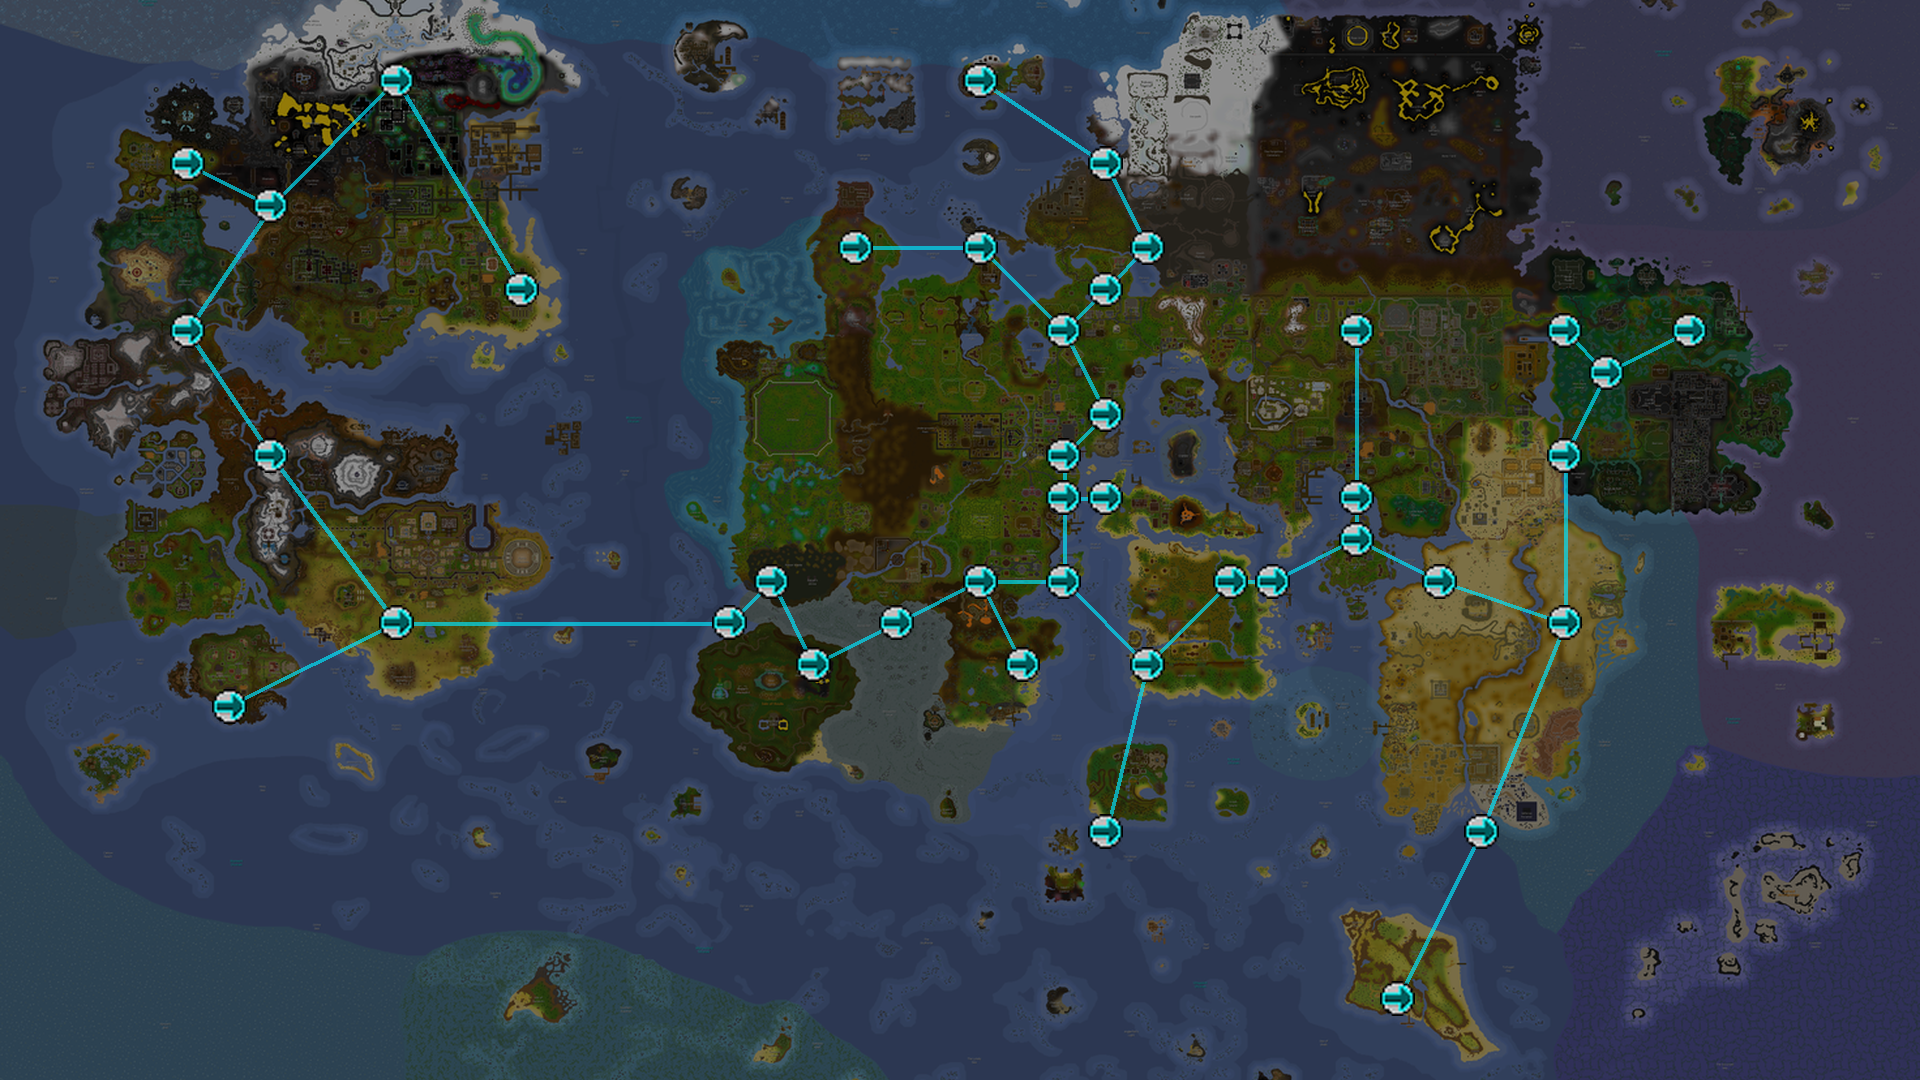
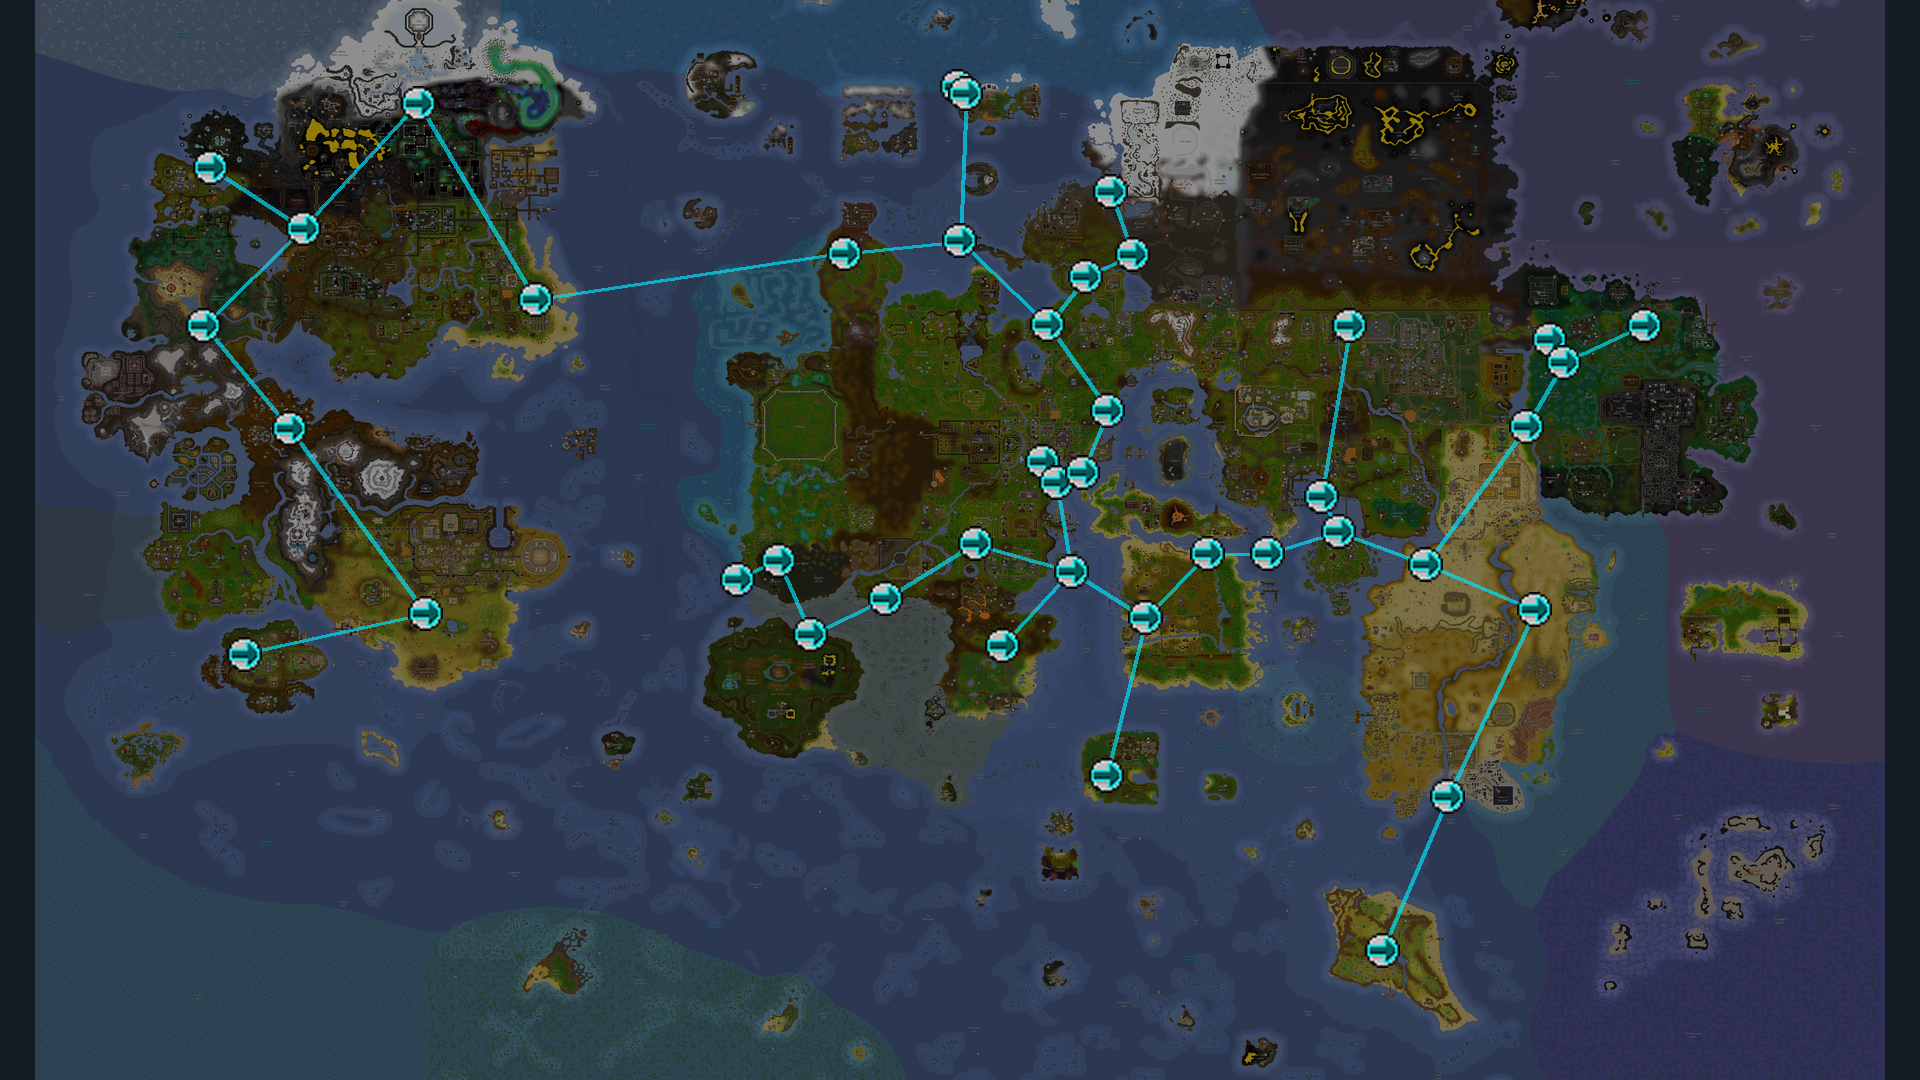
checkpoint

diff --git a/video-concept/generate_network_hd_test.py b/video-concept/generate_network_hd_test.py
@@ -1,0 +1,104 @@
+# HD test version of the fairy-ring travel network image.
+# Uses the HD world map directly (resized to the same 46x31 chunk grid) for crisper
+# detail than the 1/8-scale chunk overview. Writes to "01-fairy-ring-network copy.png".
+import json, os, math, re
+from PIL import Image, ImageDraw, ImageEnhance
+
+HD_SRC = r'c:\administratie\git\FairyMaster\fairyspecial\Old_School_RuneScape_world_map_hd.png'
+INDEX_JS = r'c:\administratie\git\FairyMaster\fairyspecial\static\index.js'
+CHUNKS_DIR = r'c:\administratie\git\FairyMaster\fairyspecial\static\chunks'
+OUT = r'c:\administratie\git\FairyMaster\video-concept\01-fairy-ring-network copy.png'
+
+manifest = json.load(open(os.path.join(CHUNKS_DIR, 'manifest.json')))
+COLS, ROWS = manifest['cols'], manifest['rows']
+
+FAIRY = {
+    '4,9', '4,23', '6,4', '6,26', '7,6', '8,20', '8,23', '8,27', '9,12', '9,26',
+    '10,4', '10,25', '10,32', '10,37', '10,40', '11,38', '12,26', '13,6', '13,25', '13,37',
+    '14,25', '14,26', '14,32', '15,32', '16,18', '16,23', '16,25', '16,29', '16,30', '16,34',
+    '17,9', '17,17', '17,21', '17,37', '18,19', '18,24', '18,27', '19,5', '22,26', '22,35', '26,33'
+}
+
+# Build the overview from the HD map directly at half of the stitched size (128px per chunk)
+SCALE = 2
+OV_W, OV_H = COLS * 256 // SCALE, ROWS * 256 // SCALE
+print('Building HD overview', OV_W, 'x', OV_H)
+overview = Image.open(HD_SRC).convert('RGB').resize((OV_W, OV_H), Image.LANCZOS)
+
+W, H = 1920, 1080
+img = Image.new('RGB', (W, H), (8, 10, 16))
+# cover-scale the overview onto the canvas
+ov_scale = max(W / OV_W, H / OV_H)
+nw, nh = int(OV_W * ov_scale), int(OV_H * ov_scale)
+img.paste(overview.resize((nw, nh), Image.LANCZOS), ((W - nw) // 2, (H - nh) // 2))
+img = ImageEnhance.Brightness(img).enhance(0.6)
+
+ox = (W - OV_W * ov_scale) / 2
+oy = (H - OV_H * ov_scale) / 2
+
+# Ring positions: calibrated exact positions, SAME as the app (colWidths 256px,
+# rows scaled 97% = 248px). Verified against the app's DOM marker positions.
+TILE, MIN_X, MAX_Y, XC = 64, 1024, 4160, -6
+ROW_H = 248  # 256 * 0.97 rounded
+# HD-map alignment: affine transform from the standard grid -> HD map, fitted from
+# 7 clean sea-mask template matches (west BLS/AIS, north ALP, center CJR, east
+# BIP/CKS, south DIS; outliers excluded), residuals <= 1px:
+#   x_hd = 0.9584*x + 122.6 ,  y_hd = 0.9419*y + 115.6   (overview px)
+HD_SCALE_X = 0.9584
+HD_SCALE_Y = 0.9419
+HD_OFFSET_X = 122.6
+HD_OFFSET_Y = 115.6
+
+def load_rings():
+    js = open(INDEX_JS, encoding='utf-8').read()
+    block = re.search(r"const FAIRY_RING_LOCATIONS = Object\.freeze\(\{(.*?)\};", js, re.S).group(1)
+    rings = []
+    for m in re.finditer(r"'(\w+)':\s*\{ chunkId: 'chunk_(\d+)_(\d+)', dest: (?:'[^']*'|\"[^\"]*\"), x: (\d+), y: (\d+) \}", block):
+        code, r, c, x, y = m.groups()
+        r, c, x, y = int(r), int(c), int(x), int(y)
+        if f'{r},{c}' not in FAIRY:
+            continue
+        fx = (x + XC - (MIN_X + c * TILE)) / TILE
+        fy = ((MAX_Y - r * TILE) - y) / TILE
+        rings.append((c * 256 + fx * 256, r * ROW_H + fy * ROW_H))
+    return rings
+
+nodes = []
+for (sx, sy) in load_rings():
+    ov_x = (sx / SCALE) * HD_SCALE_X + HD_OFFSET_X
+    ov_y = (sy / SCALE) * HD_SCALE_Y + HD_OFFSET_Y
+    cx = ox + ov_x * ov_scale
+    cy = oy + ov_y * ov_scale
+    nodes.append((cx, cy))
+
+# Minimum Spanning Tree (Kruskal) - clean network, 40 edges
+parent = list(range(len(nodes)))
+def find(a):
+    while parent[a] != a:
+        parent[a] = parent[parent[a]]
+        a = parent[a]
+    return a
+edges = []
+for i in range(len(nodes)):
+    for j in range(i + 1, len(nodes)):
+        edges.append((math.hypot(nodes[j][0] - nodes[i][0], nodes[j][1] - nodes[i][1]), i, j))
+edges.sort()
+ov = Image.new('RGBA', (W, H), (0, 0, 0, 0))
+d = ImageDraw.Draw(ov, 'RGBA')
+for dist, i, j in edges:
+    ra, rb = find(i), find(j)
+    if ra != rb:
+        parent[ra] = rb
+        d.line([nodes[i][0], nodes[i][1], nodes[j][0], nodes[j][1]], fill=(0, 229, 255, 170), width=4)
+img.paste(ov, (0, 0), ov)
+
+# fairy ring icons
+icon = Image.open(r'c:\administratie\git\FairyMaster\fairyspecial\static\boss_images\fairy_ring_travel.png').convert('RGBA')
+chunk_on_canvas = (256 / SCALE) * ov_scale
+isz = max(18, int(chunk_on_canvas * 0.85))
+icon = icon.resize((isz, isz), Image.LANCZOS)
+for (cx, cy) in nodes:
+    img.paste(icon, (int(cx - isz / 2), int(cy - isz / 2)), icon)
+
+img.save(OUT)
+print('Saved', OUT, img.size)

diff --git a/video-concept/generate_concepts.py b/video-concept/generate_concepts.py
@@ -1,6 +1,6 @@
 # Generates 1920x1080 video concept images for FairyMaster ("locked to the fairy ring chunks")
 # Built from the REAL map tiles in fairyspecial/static/chunks.
-import json, os, math
+import json, os, math, re
 from PIL import Image, ImageDraw, ImageFont, ImageEnhance
 
 BASE = r'c:\administratie\git\FairyMaster\fairyspecial\static\chunks'
@@ -18,6 +18,27 @@ FAIRY = {
     '17,9', '17,17', '17,21', '17,37', '18,19', '18,24', '18,27', '19,5', '22,26', '22,35', '26,33'
 }
 CHUNK_PX = 256  # each chunk is 256x256 px
+
+# Ring game coords -> calibrated stitched-map position, SAME as the app:
+# colWidths 256px, rows scaled to 97% = 248px (DEFAULT_ROW_SCALE_PERCENT=97).
+# Verified against the app's DOM marker positions (CIS=(2424,1128), CLP y=3689, ...).
+INDEX_JS = r'c:\administratie\git\FairyMaster\fairyspecial\static\index.js'
+TILE, MIN_X, MAX_Y, XC = 64, 1024, 4160, -6
+ROW_H = 248  # 256 * 0.97 rounded
+
+def load_rings():
+    js = open(INDEX_JS, encoding='utf-8').read()
+    block = re.search(r"const FAIRY_RING_LOCATIONS = Object\.freeze\(\{(.*?)\}\);", js, re.S).group(1)
+    rings = []
+    for m in re.finditer(r"'(\w+)':\s*\{ chunkId: 'chunk_(\d+)_(\d+)', dest: (?:'[^']*'|\"[^\"]*\"), x: (\d+), y: (\d+) \}", block):
+        code, r, c, x, y = m.groups()
+        r, c, x, y = int(r), int(c), int(x), int(y)
+        if f'{r},{c}' not in FAIRY:
+            continue
+        fx = (x + XC - (MIN_X + c * TILE)) / TILE
+        fy = ((MAX_Y - r * TILE) - y) / TILE
+        rings.append((c * CHUNK_PX + fx * CHUNK_PX, r * ROW_H + fy * ROW_H))
+    return rings
 
 def build_overview(scale):
     """Compose the full map (46x31 grid) at the given scale (chunk size = 256/scale)."""
@@ -209,12 +230,10 @@ ov = Image.new('RGBA', (W, H), (0, 0, 0, 0))
 d = ImageDraw.Draw(ov, 'RGBA')
 # node centers (canvas coords)
 nodes = []
-for r in range(ROWS):
-    for c in range(COLS):
-        if f'{r},{c}' in FAIRY:
-            cx = ox + (c + 0.5) * cs_small * ov_scale
-            cy = oy + (r + 0.5) * cs_small * ov_scale
-            nodes.append((cx, cy))
+for (sx, sy) in load_rings():
+    cx = ox + (sx / 8) * ov_scale
+    cy = oy + (sy / 8) * ov_scale
+    nodes.append((cx, cy))
 # Clean network via a Minimum Spanning Tree: connects all 41 rings with the
 # fewest/shortest lines instead of a dense web (especially in the middle).
 parent = list(range(len(nodes)))

diff --git a/video-concept/_verify_hd.py b/video-concept/_verify_hd.py
@@ -1,0 +1,27 @@
+from PIL import Image
+import os
+
+p = r'c:\administratie\git\FairyMaster\video-concept\01-fairy-ring-network copy.png'
+im = Image.open(p).convert('RGB')
+W, H = im.size
+print('size:', W, 'x', H, 'KB:', os.path.getsize(p) // 1024)
+
+def ring_canvas(r, c, x, y):
+    SCALE = 2
+    OV_W, OV_H = 5888, 3968
+    ov_scale = max(W / OV_W, H / OV_H)
+    ox = (W - OV_W * ov_scale) / 2
+    oy = (H - OV_H * ov_scale) / 2
+    TILE = 64; MIN_X = 1024; MAX_Y = 4160; XC = -6
+    fx = (x + XC - (MIN_X + c * TILE)) / TILE
+    fy = ((MAX_Y - r * TILE) - y) / TILE
+    stx = c * 256 + fx * 256
+    sty = r * 256 + fy * 256
+    return int(ox + (stx / SCALE + 128 / SCALE) * ov_scale), int(oy + (sty / SCALE + 128 / SCALE) * ov_scale)
+
+tests = [('CLP', 14, 32, 3081, 3208), ('DIS', 15, 32, 3109, 3149), ('BIQ', 16, 34, 3248, 3095),
+         ('CIS', 4, 9, 1636, 3869), ('CJQ', 26, 33, 3178, 2445)]
+for code, r, c, x, y in tests:
+    cx, cy = ring_canvas(r, c, x, y)
+    px = im.getpixel((cx, cy))
+    print(code, 'at', (cx, cy), 'px:', px, 'icon:', px != (8, 10, 16) and sum(px) > 60)
